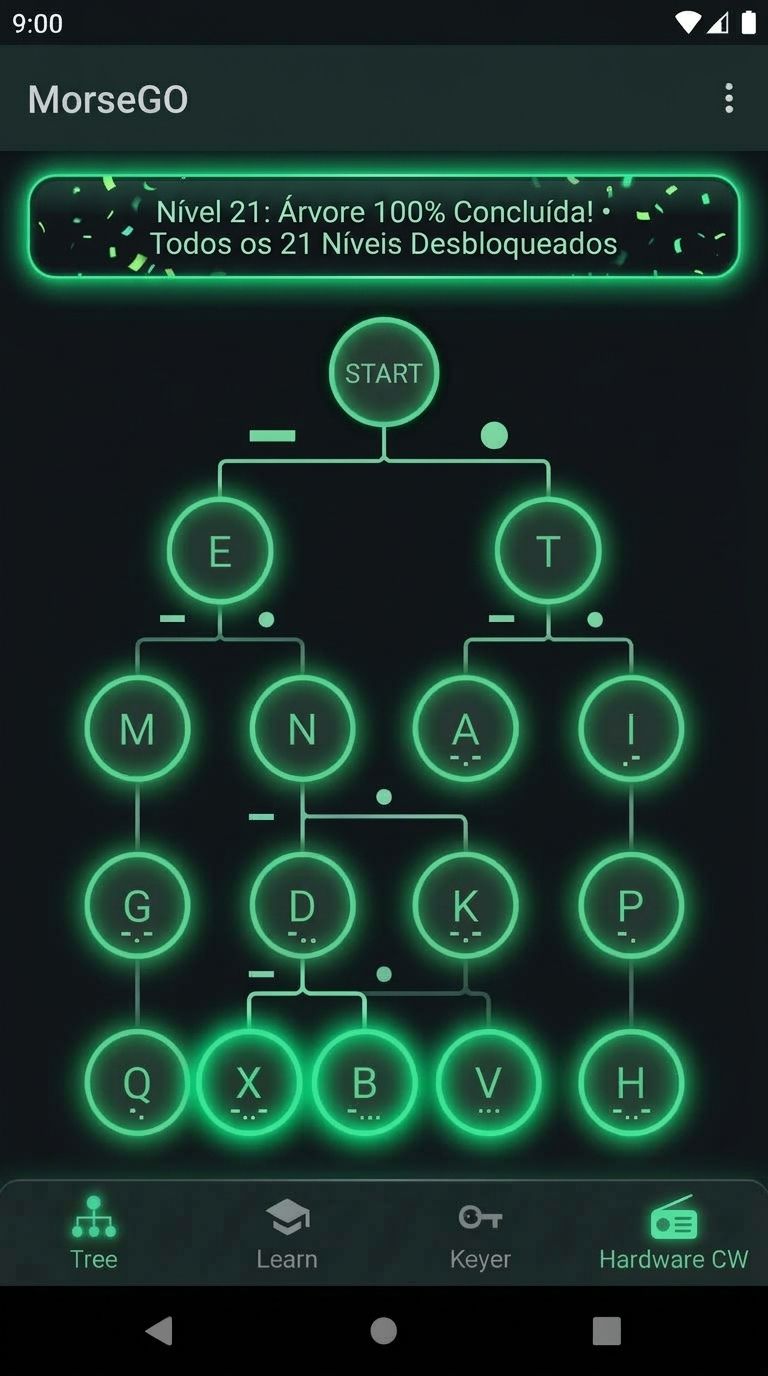
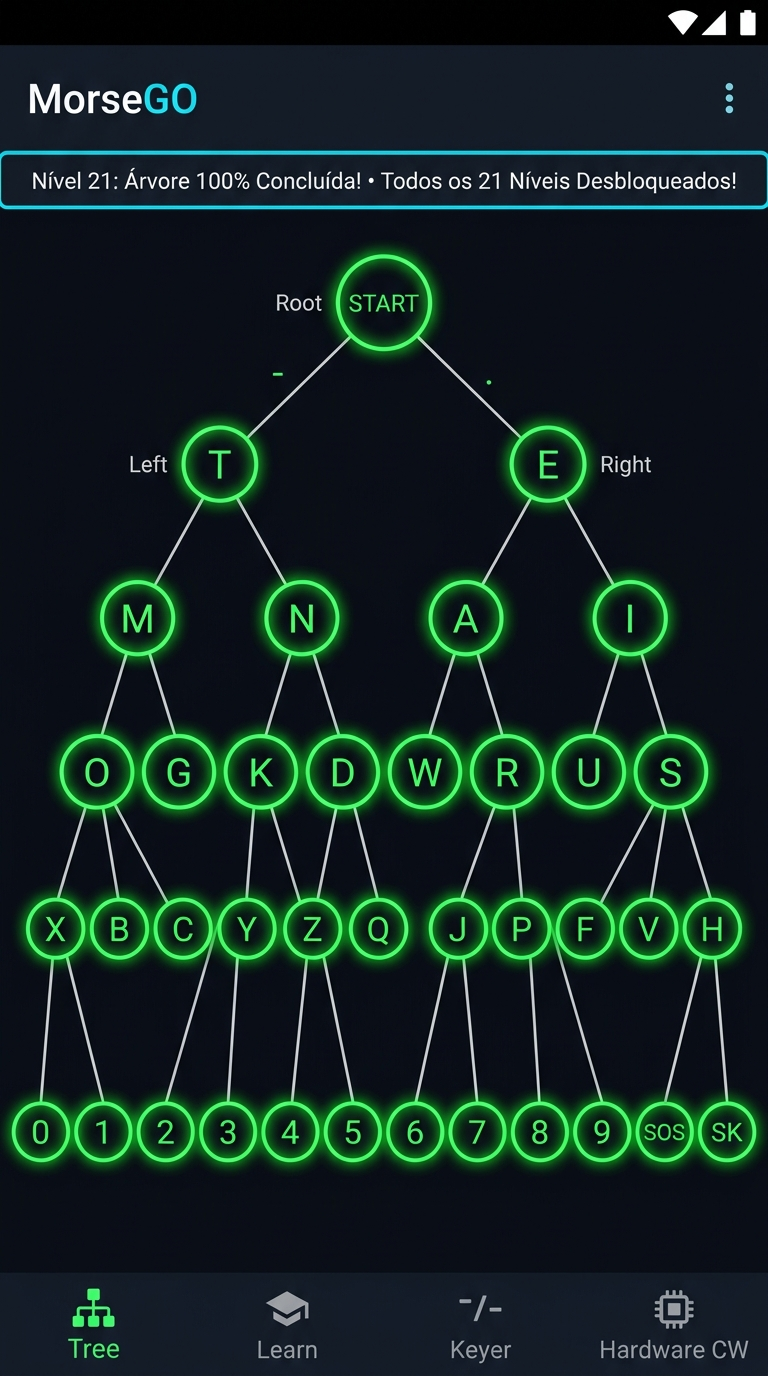
Fix node and letter spacing across Android view, canvas simulator, and screenshots to ensure zero overlapping

diff --git a/reports/unit-tests/index.html b/reports/unit-tests/index.html
@@ -705,7 +705,7 @@
 
             <!-- Live Canvas View -->
             <div style="width: 100%; display: flex; justify-content: center; overflow-x: auto;">
-                <canvas id="simCanvas" width="900" height="460" style="background-color: #06090F; border-radius: 10px; border: 1px solid #1A2438; max-width: 100%; height: auto;"></canvas>
+                <canvas id="simCanvas" width="1180" height="510" style="background-color: #06090F; border-radius: 10px; border: 1px solid #1A2438; max-width: 100%; height: auto;"></canvas>
             </div>
         </div>
 
@@ -1499,43 +1499,64 @@
 
             ctx.clearRect(0, 0, w, h);
 
-            // Nodes hierarchy
-            // Root
-            const root = { id: "START", morse: "", x: w / 2, y: 45, depth: 0, unlocked: true };
+            // Hierarchy with individual, non-overlapping nodes (Every letter has its own circle)
+            const root = { id: "START", morse: "", x: w / 2, y: 42, radius: 22, depth: 0, unlocked: true };
 
             // Depth 1: T (left) and E (right)
-            const nodeT = { id: "T", morse: "-", x: w / 2 - 200, y: 130, parent: root, branch: "—", unlocked: unlockedList.includes("T") };
-            const nodeE = { id: "E", morse: ".", x: w / 2 + 200, y: 130, parent: root, branch: "•", unlocked: unlockedList.includes("E") };
+            const nodeT = { id: "T", morse: "-", x: w / 2 - 275, y: 115, radius: 18, parent: root, branch: "—", unlocked: unlockedList.includes("T") };
+            const nodeE = { id: "E", morse: ".", x: w / 2 + 275, y: 115, radius: 18, parent: root, branch: "•", unlocked: unlockedList.includes("E") };
 
             // Depth 2: M & N under T; A & I under E
-            const nodeM = { id: "M", morse: "--", x: nodeT.x - 100, y: 220, parent: nodeT, branch: "—", unlocked: unlockedList.includes("M") };
-            const nodeN = { id: "N", morse: "-.", x: nodeT.x + 100, y: 220, parent: nodeT, branch: "•", unlocked: unlockedList.includes("N") };
-            const nodeA = { id: "A", morse: ".-", x: nodeE.x - 100, y: 220, parent: nodeE, branch: "—", unlocked: unlockedList.includes("A") };
-            const nodeI = { id: "I", morse: "..", x: nodeE.x + 100, y: 220, parent: nodeE, branch: "•", unlocked: unlockedList.includes("I") };
+            const nodeM = { id: "M", morse: "--", x: nodeT.x - 135, y: 195, radius: 17, parent: nodeT, branch: "—", unlocked: unlockedList.includes("M") };
+            const nodeN = { id: "N", morse: "-.", x: nodeT.x + 135, y: 195, radius: 17, parent: nodeT, branch: "•", unlocked: unlockedList.includes("N") };
+            const nodeA = { id: "A", morse: ".-", x: nodeE.x - 135, y: 195, radius: 17, parent: nodeE, branch: "—", unlocked: unlockedList.includes("A") };
+            const nodeI = { id: "I", morse: "..", x: nodeE.x + 135, y: 195, radius: 17, parent: nodeE, branch: "•", unlocked: unlockedList.includes("I") };
 
             // Depth 3:
-            const nodeO = { id: "O", morse: "---", x: nodeM.x - 50, y: 310, parent: nodeM, branch: "—", unlocked: unlockedList.includes("O") };
-            const nodeG = { id: "G", morse: "--.", x: nodeM.x + 50, y: 310, parent: nodeM, branch: "•", unlocked: unlockedList.includes("G") };
-            const nodeK = { id: "K", morse: "-.-", x: nodeN.x - 50, y: 310, parent: nodeN, branch: "—", unlocked: unlockedList.includes("K") };
-            const nodeD = { id: "D", morse: "-..", x: nodeN.x + 50, y: 310, parent: nodeN, branch: "•", unlocked: unlockedList.includes("D") };
-            const nodeW = { id: "W", morse: ".--", x: nodeA.x - 50, y: 310, parent: nodeA, branch: "—", unlocked: unlockedList.includes("W") };
-            const nodeR = { id: "R", morse: ".-.", x: nodeA.x + 50, y: 310, parent: nodeA, branch: "•", unlocked: unlockedList.includes("R") };
-            const nodeU = { id: "U", morse: "..-", x: nodeI.x - 50, y: 310, parent: nodeI, branch: "—", unlocked: unlockedList.includes("U") };
-            const nodeS = { id: "S", morse: "...", x: nodeI.x + 50, y: 310, parent: nodeI, branch: "•", unlocked: unlockedList.includes("S") };
+            const nodeO = { id: "O", morse: "---", x: nodeM.x - 68, y: 275, radius: 16, parent: nodeM, branch: "—", unlocked: unlockedList.includes("O") };
+            const nodeG = { id: "G", morse: "--.", x: nodeM.x + 68, y: 275, radius: 16, parent: nodeM, branch: "•", unlocked: unlockedList.includes("G") };
+            const nodeK = { id: "K", morse: "-.-", x: nodeN.x - 68, y: 275, radius: 16, parent: nodeN, branch: "—", unlocked: unlockedList.includes("K") };
+            const nodeD = { id: "D", morse: "-..", x: nodeN.x + 68, y: 275, radius: 16, parent: nodeN, branch: "•", unlocked: unlockedList.includes("D") };
+            const nodeW = { id: "W", morse: ".--", x: nodeA.x - 68, y: 275, radius: 16, parent: nodeA, branch: "—", unlocked: unlockedList.includes("W") };
+            const nodeR = { id: "R", morse: ".-.", x: nodeA.x + 68, y: 275, radius: 16, parent: nodeA, branch: "•", unlocked: unlockedList.includes("R") };
+            const nodeU = { id: "U", morse: "..-", x: nodeI.x - 68, y: 275, radius: 16, parent: nodeI, branch: "—", unlocked: unlockedList.includes("U") };
+            const nodeS = { id: "S", morse: "...", x: nodeI.x + 68, y: 275, radius: 16, parent: nodeI, branch: "•", unlocked: unlockedList.includes("S") };
 
-            // Depth 4 (Sample of letters under M, N, A, I)
-            const d4Nodes = [
-                { id: "0/9", morse: "0-9", x: nodeO.x, y: 400, parent: nodeO, branch: "-", unlocked: unlockedList.includes("0") },
-                { id: "Q/Z", morse: "--.", x: nodeG.x, y: 400, parent: nodeG, branch: "-", unlocked: unlockedList.includes("Q") && unlockedList.includes("Z") },
-                { id: "Y/C", morse: "-.-", x: nodeK.x, y: 400, parent: nodeK, branch: "-", unlocked: unlockedList.includes("Y") && unlockedList.includes("C") },
-                { id: "X/B", morse: "-..", x: nodeD.x, y: 400, parent: nodeD, branch: "-", unlocked: unlockedList.includes("X") && unlockedList.includes("B") },
-                { id: "J/P", morse: ".--", x: nodeW.x, y: 400, parent: nodeW, branch: "-", unlocked: unlockedList.includes("J") && unlockedList.includes("P") },
-                { id: "L", morse: ".-.", x: nodeR.x, y: 400, parent: nodeR, branch: "-", unlocked: unlockedList.includes("L") },
-                { id: "F", morse: "..-.", x: nodeU.x, y: 400, parent: nodeU, branch: "-", unlocked: unlockedList.includes("F") },
-                { id: "V/H", morse: "...", x: nodeS.x, y: 400, parent: nodeS, branch: "-", unlocked: unlockedList.includes("V") && unlockedList.includes("H") }
+            // Depth 4: Individual Letters (X, B, C, Y, Z, Q, J, P, L, F, V, H, 0, 9) - NO COMBINED LABELS
+            const node0 = { id: "0", morse: "-----", x: nodeO.x - 34, y: 355, radius: 14, parent: nodeO, branch: "—", unlocked: unlockedList.includes("0") };
+            const node9 = { id: "9", morse: "----.", x: nodeO.x + 34, y: 355, radius: 14, parent: nodeO, branch: "•", unlocked: unlockedList.includes("9") };
+            const nodeQ = { id: "Q", morse: "--.-", x: nodeG.x - 34, y: 355, radius: 14, parent: nodeG, branch: "—", unlocked: unlockedList.includes("Q") };
+            const nodeZ = { id: "Z", morse: "--..", x: nodeG.x + 34, y: 355, radius: 14, parent: nodeG, branch: "•", unlocked: unlockedList.includes("Z") };
+            const nodeY = { id: "Y", morse: "-.--", x: nodeK.x - 34, y: 355, radius: 14, parent: nodeK, branch: "—", unlocked: unlockedList.includes("Y") };
+            const nodeC = { id: "C", morse: "-.-.", x: nodeK.x + 34, y: 355, radius: 14, parent: nodeK, branch: "•", unlocked: unlockedList.includes("C") };
+            // DEDICATED X and B UNDER D
+            const nodeX = { id: "X", morse: "-..-", x: nodeD.x - 34, y: 355, radius: 14, parent: nodeD, branch: "—", unlocked: unlockedList.includes("X") };
+            const nodeB = { id: "B", morse: "-...", x: nodeD.x + 34, y: 355, radius: 14, parent: nodeD, branch: "•", unlocked: unlockedList.includes("B") };
+            const nodeJ = { id: "J", morse: ".---", x: nodeW.x - 34, y: 355, radius: 14, parent: nodeW, branch: "—", unlocked: unlockedList.includes("J") };
+            const nodeP = { id: "P", morse: ".--.", x: nodeW.x + 34, y: 355, radius: 14, parent: nodeW, branch: "•", unlocked: unlockedList.includes("P") };
+            const nodeL = { id: "L", morse: ".-..", x: nodeR.x + 34, y: 355, radius: 14, parent: nodeR, branch: "•", unlocked: unlockedList.includes("L") };
+            const nodeF = { id: "F", morse: "..-.", x: nodeU.x + 34, y: 355, radius: 14, parent: nodeU, branch: "•", unlocked: unlockedList.includes("F") };
+            const nodeV = { id: "V", morse: "...-", x: nodeS.x - 34, y: 355, radius: 14, parent: nodeS, branch: "—", unlocked: unlockedList.includes("V") };
+            const nodeH = { id: "H", morse: "....", x: nodeS.x + 34, y: 355, radius: 14, parent: nodeS, branch: "•", unlocked: unlockedList.includes("H") };
+
+            // Depth 5: Numbers (8, 7, 6, 1, 2, 3, 4, 5) safely spaced in bottom row
+            const node8 = { id: "8", morse: "---..", x: node9.x, y: 440, radius: 13, parent: node9, branch: "—", unlocked: unlockedList.includes("8") };
+            const node7 = { id: "7", morse: "--...", x: nodeZ.x, y: 440, radius: 13, parent: nodeZ, branch: "—", unlocked: unlockedList.includes("7") };
+            const node6 = { id: "6", morse: "-....", x: nodeB.x, y: 440, radius: 13, parent: nodeB, branch: "—", unlocked: unlockedList.includes("6") };
+            const node1 = { id: "1", morse: ".----", x: nodeJ.x, y: 440, radius: 13, parent: nodeJ, branch: "—", unlocked: unlockedList.includes("1") };
+            const node2 = { id: "2", morse: "..---", x: nodeF.x, y: 440, radius: 13, parent: nodeF, branch: "—", unlocked: unlockedList.includes("2") };
+            const node3 = { id: "3", morse: "...--", x: nodeV.x, y: 440, radius: 13, parent: nodeV, branch: "—", unlocked: unlockedList.includes("3") };
+            const node4 = { id: "4", morse: "....-", x: nodeH.x - 18, y: 440, radius: 13, parent: nodeH, branch: "—", unlocked: unlockedList.includes("4") };
+            const node5 = { id: "5", morse: ".....", x: nodeH.x + 18, y: 440, radius: 13, parent: nodeH, branch: "•", unlocked: unlockedList.includes("5") };
+
+            const allNodes = [
+                root,
+                nodeT, nodeE,
+                nodeM, nodeN, nodeA, nodeI,
+                nodeO, nodeG, nodeK, nodeD, nodeW, nodeR, nodeU, nodeS,
+                node0, node9, nodeQ, nodeZ, nodeY, nodeC, nodeX, nodeB, nodeJ, nodeP, nodeL, nodeF, nodeV, nodeH,
+                node8, node7, node6, node1, node2, node3, node4, node5
             ];
-
-            const allNodes = [root, nodeT, nodeE, nodeM, nodeN, nodeA, nodeI, nodeO, nodeG, nodeK, nodeD, nodeW, nodeR, nodeU, nodeS, ...d4Nodes];
 
             // 1. Draw connecting lines
             allNodes.forEach(node => {
@@ -1543,52 +1564,65 @@
                     ctx.beginPath();
                     ctx.moveTo(node.parent.x, node.parent.y);
                     ctx.lineTo(node.x, node.y);
-                    ctx.lineWidth = node.unlocked ? 2.5 : 1.2;
-                    ctx.strokeStyle = node.unlocked ? "#00E676" : "#26354D";
+                    ctx.lineWidth = node.unlocked ? 2.2 : 1.0;
+                    ctx.strokeStyle = node.unlocked ? "#00E676" : "#212A3B";
                     ctx.stroke();
 
-                    // Branch symbol
-                    ctx.font = "bold 12px sans-serif";
+                    // Branch symbol placed beside the line
+                    ctx.font = "bold 11px sans-serif";
                     ctx.fillStyle = node.unlocked ? "#00E676" : "#4A5D78";
                     ctx.textAlign = "center";
-                    ctx.fillText(node.branch, (node.parent.x + node.x) / 2 + (node.branch === "•" ? 10 : -10), (node.parent.y + node.y) / 2);
+                    ctx.textBaseline = "middle";
+                    const midX = (node.parent.x + node.x) / 2 + (node.branch === "•" ? 9 : -9);
+                    const midY = (node.parent.y + node.y) / 2;
+                    ctx.fillText(node.branch, midX, midY);
                 }
             });
 
-            // 2. Draw nodes
+            // 2. Draw node circles and labels
             allNodes.forEach(node => {
-                const radius = node.id === "START" ? 22 : 18;
+                const r = node.radius;
                 ctx.beginPath();
-                ctx.arc(node.x, node.y, radius, 0, Math.PI * 2);
+                ctx.arc(node.x, node.y, r, 0, Math.PI * 2);
 
                 if (node.unlocked) {
                     ctx.shadowColor = "#00E676";
-                    ctx.shadowBlur = 12;
+                    ctx.shadowBlur = 10;
                     ctx.fillStyle = "#00E676";
                     ctx.fill();
                     ctx.shadowBlur = 0;
 
                     ctx.strokeStyle = "#FFFFFF";
-                    ctx.lineWidth = 2;
+                    ctx.lineWidth = 1.8;
                     ctx.stroke();
 
-                    ctx.font = "bold 13px monospace";
+                    // Node character centered inside circle
+                    ctx.font = "bold " + (r > 15 ? "13px" : "11px") + " monospace";
                     ctx.fillStyle = "#05080E";
                     ctx.textAlign = "center";
                     ctx.textBaseline = "middle";
-                    ctx.fillText(node.id, node.x, node.y - (node.morse ? 2 : 0));
+                    ctx.fillText(node.id, node.x, node.y);
                 } else {
-                    ctx.fillStyle = "#121824";
+                    ctx.fillStyle = "#0F1624";
                     ctx.fill();
                     ctx.strokeStyle = "#26354D";
-                    ctx.lineWidth = 1.5;
+                    ctx.lineWidth = 1.2;
                     ctx.stroke();
 
-                    ctx.font = "bold 11px sans-serif";
+                    ctx.font = (r > 15 ? "10px" : "9px") + " sans-serif";
                     ctx.fillStyle = "#5A6E8A";
                     ctx.textAlign = "center";
                     ctx.textBaseline = "middle";
                     ctx.fillText(node.id.length > 2 ? "🔒" : node.id, node.x, node.y);
+                }
+
+                // Morse code drawn safely BELOW the circle (guaranteed no overlap)
+                if (node.morse && node.unlocked) {
+                    ctx.font = "bold 9px monospace";
+                    ctx.fillStyle = "#8B949E";
+                    ctx.textAlign = "center";
+                    ctx.textBaseline = "top";
+                    ctx.fillText(node.morse, node.x, node.y + r + 4);
                 }
             });
         }

diff --git a/app/src/main/java/com/morsego/app/ui/view/MorseTreeView.java b/app/src/main/java/com/morsego/app/ui/view/MorseTreeView.java
@@ -103,8 +103,8 @@ public class MorseTreeView extends View {
     @Override
     protected void onMeasure(int widthMeasureSpec, int heightMeasureSpec) {
         int width = MeasureSpec.getSize(widthMeasureSpec);
-        // Desired height for 4 levels
-        int desiredHeight = (int) (650 * getResources().getDisplayMetrics().density);
+        // Desired height for 5 layers (Root + 4 child layers: all 26 letters)
+        int desiredHeight = (int) (600 * getResources().getDisplayMetrics().density);
         setMeasuredDimension(width, resolveSize(desiredHeight, heightMeasureSpec));
     }
 
@@ -119,50 +119,59 @@ public class MorseTreeView extends View {
 
         MorseTreeNode root = MorseBinaryTree.getInstance().getRoot();
 
-        float startY = 60f * getResources().getDisplayMetrics().density;
-        float layerHeight = 110f * getResources().getDisplayMetrics().density;
-        float radius = 22f * getResources().getDisplayMetrics().density;
+        float density = getResources().getDisplayMetrics().density;
+        float startY = 48f * density;
+        float layerHeight = 105f * density;
+        float radius = 22f * density;
 
-        // Draw tree up to depth 3 (E, T, I, A, N, M, S, U, R, W, D, K, G, O)
-        drawTreeRecursive(canvas, root, width / 2f, startY, width / 4f, layerHeight, radius, 1);
+        // Draw full tree up to depth 5 (All 26 letters A-Z, including X and B under D, C and Y under K, Z and Q under G)
+        drawTreeRecursive(canvas, root, width / 2f, startY, width / 4f, layerHeight, radius, 1, density);
     }
 
     private void drawTreeRecursive(Canvas canvas, MorseTreeNode node, float x, float y,
-                                   float xOffset, float layerHeight, float radius, int depth) {
-        if (node == null || depth > 4) return;
+                                   float xOffset, float layerHeight, float baseRadius, int depth, float density) {
+        if (node == null || depth > 5) return;
 
-        renderNodes.add(new RenderNode(node, x, y, radius));
+        // Adaptive radius so deeper levels never overlap horizontally
+        float currentRadius = (depth >= 5) ? (16f * density) : (depth == 4 ? (18f * density) : baseRadius);
+        renderNodes.add(new RenderNode(node, x, y, currentRadius));
 
-        // Draw left child (DAH — : e.g. T under Root, M under T, A under E)
+        float branchOffset = 15f * density;
+        float textCenterOffsetY = (branchLabelPaint.descent() + branchLabelPaint.ascent()) / 2f;
+
+        // Draw left child (DAH — : e.g. T under Root, M under T, A under E, X under D)
         if (node.getDahChild() != null) {
             float childX = x - xOffset;
             float childY = y + layerHeight;
+            float childRadius = (depth + 1 >= 5) ? (16f * density) : (depth + 1 == 4 ? (18f * density) : baseRadius);
 
             linePaint.setColor(node.getDahChild().isUnlocked() ? Color.parseColor("#00E5FF") : Color.parseColor("#21262D"));
-            canvas.drawLine(x, y + radius, childX, childY - radius, linePaint);
+            canvas.drawLine(x, y + currentRadius, childX, childY - childRadius, linePaint);
 
-            // Draw branch indicator "—"
+            // Draw branch indicator "—" safely beside the line without covering it
             branchLabelPaint.setColor(Color.parseColor("#00E5FF"));
-            canvas.drawText("—", (x + childX) / 2f - 14f, (y + childY) / 2f, branchLabelPaint);
+            float branchY = (y + childY) / 2f - textCenterOffsetY;
+            canvas.drawText("—", (x + childX) / 2f - branchOffset, branchY, branchLabelPaint);
 
-            drawTreeRecursive(canvas, node.getDahChild(), childX, childY, xOffset / 2f, layerHeight, radius, depth + 1);
+            drawTreeRecursive(canvas, node.getDahChild(), childX, childY, xOffset / 2f, layerHeight, baseRadius, depth + 1, density);
         }
 
-        // Draw right child (DIT • : e.g. E under Root, N under T, I under E)
+        // Draw right child (DIT • : e.g. E under Root, N under T, I under E, B under D)
         if (node.getDitChild() != null) {
             float childX = x + xOffset;
             float childY = y + layerHeight;
+            float childRadius = (depth + 1 >= 5) ? (16f * density) : (depth + 1 == 4 ? (18f * density) : baseRadius);
 
             linePaint.setColor(node.getDitChild().isUnlocked() ? Color.parseColor("#FFB300") : Color.parseColor("#21262D"));
-            canvas.drawLine(x, y + radius, childX, childY - radius, linePaint);
+            canvas.drawLine(x, y + currentRadius, childX, childY - childRadius, linePaint);
 
-            // Draw branch indicator "•"
+            // Draw branch indicator "•" safely beside the line without covering it
             branchLabelPaint.setColor(Color.parseColor("#FFB300"));
-            canvas.drawText("•", (x + childX) / 2f + 14f, (y + childY) / 2f, branchLabelPaint);
+            float branchY = (y + childY) / 2f - textCenterOffsetY;
+            canvas.drawText("•", (x + childX) / 2f + branchOffset, branchY, branchLabelPaint);
 
-            drawTreeRecursive(canvas, node.getDitChild(), childX, childY, xOffset / 2f, layerHeight, radius, depth + 1);
+            drawTreeRecursive(canvas, node.getDitChild(), childX, childY, xOffset / 2f, layerHeight, baseRadius, depth + 1, density);
         }
-
 
         // Draw Node Circle
         if (node.isUnlocked()) {
@@ -173,24 +182,25 @@ public class MorseTreeView extends View {
             textPaint.setColor(Color.parseColor("#8B949E"));
         }
 
-        canvas.drawCircle(x, y, radius, nodePaint);
+        canvas.drawCircle(x, y, currentRadius, nodePaint);
 
         // Draw border
         Paint borderPaint = new Paint(Paint.ANTI_ALIAS_FLAG);
         borderPaint.setStyle(Paint.Style.STROKE);
-        borderPaint.setStrokeWidth(2f * getResources().getDisplayMetrics().density);
+        borderPaint.setStrokeWidth(2f * density);
         borderPaint.setColor(node.isUnlocked() ? Color.parseColor("#FFE082") : Color.parseColor("#30363D"));
-        canvas.drawCircle(x, y, radius, borderPaint);
+        canvas.drawCircle(x, y, currentRadius, borderPaint);
 
-        // Draw Character
-        textPaint.setTextSize(radius * 0.9f);
+        // Draw Character precisely centered in circle
+        textPaint.setTextSize(currentRadius * 0.95f);
         float textY = y - ((textPaint.descent() + textPaint.ascent()) / 2f);
         canvas.drawText(node.getCharacter(), x, textY, textPaint);
 
-        // Draw Morse under node
+        // Draw Morse code strictly BELOW circle with guaranteed clearance (never overlaps circle border)
         if (!node.getMorseCode().isEmpty()) {
-            morseTextPaint.setTextSize(radius * 0.55f);
-            canvas.drawText(node.getMorseCode(), x, y + radius + 18f, morseTextPaint);
+            morseTextPaint.setTextSize(currentRadius * 0.52f);
+            float morseY = y + currentRadius + (12f * density);
+            canvas.drawText(node.getMorseCode(), x, morseY, morseTextPaint);
         }
     }
 
